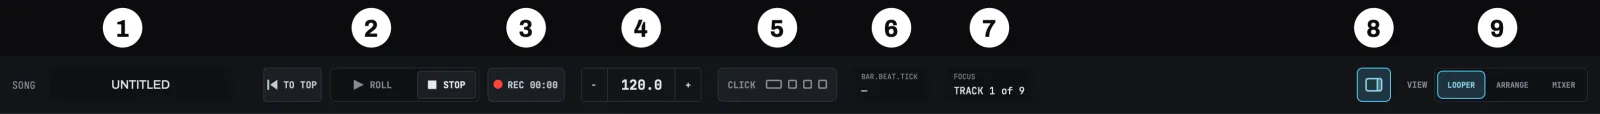
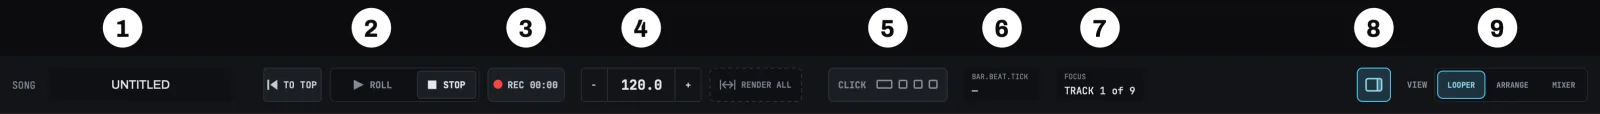
LOOM manual: 1.6.0

diff --git a/src/loom-manual/side-panel.html b/src/loom-manual/side-panel.html
@@ -26,7 +26,7 @@ manualSlug: side-panel
 <p>To leave the <code>TRACK</code> panel, use the <code>GLOBAL</code> tab. To hide the panel, use the panel toggle.</p>
 <h2 id="the-global-panel">The GLOBAL panel</h2>
 <p>Everything here is the song's global default: the value a track inherits until you change it on that track. Changing a setting here does not overwrite every track. A strip you have set differently in the <code>i</code> panel keeps its own value and shows an asterisk on its <code>STOP</code> face.</p>
-<div class="shot-pair"><figure class="shot shot-pair"><img src="/assets/loom/manual/panel.global-settings.webp" width="301" height="492" loading="lazy" decoding="async" alt="The top of the GLOBAL panel as the window opens: its GLOBAL and RESPONDS TO GLOBALS sections."><figcaption>The top of the GLOBAL panel as the window opens: its GLOBAL and RESPONDS TO GLOBALS sections.</figcaption></figure><figure class="shot shot-pair"><img src="/assets/loom/manual/panel.global-device.webp" width="320" height="572" loading="lazy" decoding="async" alt="The rest of the GLOBAL panel: its AUDIO DEVICE, MIDI and ACCESSIBILITY sections, with no audio device open."><figcaption>The rest of the GLOBAL panel: its AUDIO DEVICE, MIDI and ACCESSIBILITY sections, with no audio device open.</figcaption></figure></div>
+<div class="shot-pair"><figure class="shot shot-pair"><img src="/assets/loom/manual/panel.global-settings.webp" width="301" height="598" loading="lazy" decoding="async" alt="The top of the GLOBAL panel as the window opens: its GLOBAL and RESPONDS TO GLOBALS sections."><figcaption>The top of the GLOBAL panel as the window opens: its GLOBAL and RESPONDS TO GLOBALS sections.</figcaption></figure><figure class="shot shot-pair"><img src="/assets/loom/manual/panel.global-device.webp" width="320" height="466" loading="lazy" decoding="async" alt="The rest of the GLOBAL panel: its AUDIO DEVICE, MIDI and ACCESSIBILITY sections, with no audio device open."><figcaption>The rest of the GLOBAL panel: its AUDIO DEVICE, MIDI and ACCESSIBILITY sections, with no audio device open.</figcaption></figure></div>
 <h3 id="global">GLOBAL</h3>
 <table>
 <thead>
@@ -68,6 +68,9 @@ manualSlug: side-panel
 <p>There are two count-ins, and they do different jobs. <code>REC COUNT-IN</code> counts forward from a record press on one track, and recording begins on the downbeat at the end of the count. <code>SONG COUNT-IN</code>, on the <code>SONG</code> tab, counts the whole transport in before bar one, in negative time. It applies only to <code>PERFORM FROM TOP</code>. It does not apply to <code>PERFORM FROM HERE</code>, which rolls from wherever the playhead already is without locating first. Each count-in's accessible description says which one it is.</p>
 <p>Plain <code>ROLL</code> never counts in, whatever either setting says.</p>
 <p>The <code>LENGTH</code> list is a subset. The engine accepts any bar count up to 512, but the chip offers only <code>FREE</code> plus six powers of two. If a song holds a count the chip cannot show, the chip displays the nearest value it can show, and nothing is written back.</p>
+<h3 id="tempo">TEMPO</h3>
+<p><code>TEMPO</code> holds <code>RENDER ALL</code>, the same control as the button beside the tempo in the top bar. See <a href="/loom/manual/top-bar/#render-all">RENDER ALL</a>. It is always here, whatever the window's width.</p>
+<p>The line above the button says what there is to render, for example <code>3 STRETCH TRACKS OFF 120.0</code>, or <code>ALL STRETCH TRACKS AT 120.0</code> when there is nothing to render. While a run is going it reads <code>TEMPO LOCKED UNTIL DONE</code>, and the button reads <code>RENDERING 2 OF 3 · 40%</code>. The note under the button says that <code>UNDO</code> brings back each track's original.</p>
 <h3 id="responds-to-globals">RESPONDS TO GLOBALS</h3>
 <table>
 <thead>
@@ -207,7 +210,7 @@ manualSlug: side-panel
 <p>It is named <code>Announce state changes</code>. Turning it on announces that it is on; turning it off is silent. It silences speech only: every name, role and description stays as it is, and the notice line still shows its text.</p>
 <p>The switch is not saved. It starts on at every launch, so if you turned it off last night, turn it off again tonight.</p>
 <h2 id="the-track-panel">The TRACK panel</h2>
-<figure class="shot shot-beside"><img src="/assets/loom/manual/panel.track-top.webp" width="301" height="502" loading="lazy" decoding="async" alt="The top of the TRACK panel on track 1: its SOURCE and TIMING sections."><figcaption>The top of the TRACK panel on track 1: its SOURCE and TIMING sections.</figcaption></figure>
+<figure class="shot shot-beside"><img src="/assets/loom/manual/panel.track-top.webp" width="301" height="578" loading="lazy" decoding="async" alt="The top of the TRACK panel on track 1: its SOURCE and TIMING sections."><figcaption>The top of the TRACK panel on track 1: its SOURCE and TIMING sections.</figcaption></figure>
 <p>This is a single panel that moves between tracks, rather than one panel per strip, and its controls are editable.</p>
 <p>The panel follows the focused track however focus moved: a strip press, an arrow key, or any strip verb, since each one focuses the track first. The tab, the body and the settings the chips write always refer to the same track.</p>
 <h3 id="the-track-panel-is-the-tracks-settings">The TRACK panel is the track's settings</h3>
@@ -268,6 +271,11 @@ manualSlug: side-panel
 <td><code>IMMEDIATE</code>, <code>END OF BEAT</code>, <code>END OF BAR</code>, <code>END OF LOOP</code></td>
 </tr>
 <tr>
+<td><code>FOLLOW TEMPO</code></td>
+<td>segmented row</td>
+<td><code>OFF</code>, <code>PITCH</code>, <code>STRETCH</code></td>
+</tr>
+<tr>
 <td><code>ON LAUNCH</code></td>
 <td>chip</td>
 <td><code>KEEP PHASE</code>, <code>FROM THE TOP</code></td>
@@ -275,7 +283,44 @@ manualSlug: side-panel
 </tbody>
 </table>
 <p>The two quantizes are segmented rows rather than dropdowns because their four values form an ordered scale (immediate, beat, bar, cycle, each coarser than the last), and a row shows that order by position. At soundcheck, you can compare five tracks with a glance along the rows.</p>
+<p><code>FOLLOW TEMPO</code> sets what the track's loop does when the song's tempo is not the tempo the loop was recorded at:</p>
+<ul>
+<li><code>STRETCH</code> plays the loop at the song's tempo and keeps its pitch. LOOM plays the loop as a stream of short overlapping slices. Each slice starts near the point the song's position says the loop has reached, shifted slightly to where its waveform best continues the slice before it, so held notes keep their pitch across the joins. Every pass of the loop starts at the same point in the bar, and while the tempo stays the same, the passes sound practically identical. At large tempo changes some smearing remains: drums can soften or flam, and fast notes can blur.</li>
+<li><code>PITCH</code> plays the loop faster or slower to match the song's tempo, and its pitch moves with its speed, like tape.</li>
+<li><code>OFF</code> plays the loop at the tempo it was recorded at. After a tempo change, the loop no longer lines up with the bar lines.</li>
+</ul>
+<p>At the tempo the loop was recorded at, all three settings play the loop exactly as it was recorded. A new track starts at <code>STRETCH</code>, and so does every track in a song saved before this setting existed.</p>
+<p>If you change <code>FOLLOW TEMPO</code> while a loop plays, the loop continues from the point it has reached. Switched to <code>OFF</code>, it plays on at its recorded tempo from that point. Switched from <code>OFF</code> to <code>STRETCH</code> or <code>PITCH</code>, it follows the song's tempo from that point and keeps its position against the bar lines, so it does not jump to a bar line. <code>END OF LOOP</code> and <code>NEXT CYCLE</code> then stop or start the track at the end of the pass you are hearing.</p>
+<p>If you change <code>FOLLOW TEMPO</code> while the track is stopped, the change takes effect when you next start the track. Changing it back and forth while the track is stopped does not move the loop against the bar lines.</p>
+<p>The line under the row says what the track is doing, for example <code>RECORDED 98.0 · PLAYING LO-FI AT 120.0</code> or <code>RECORDED 98.0 · SPEED AND PITCH FOLLOW 120.0</code>. It reads <code>PLAYING AS RECORDED</code> when the loop plays at the tempo it was recorded at, <code>NOT FOLLOWING</code> and the song's tempo when the setting is <code>OFF</code>, and <code>NO LOOP</code> when the track is empty. The line is read-only and is not a tab stop.</p>
+<p>A loop recorded with no tempo cannot follow one. The line reads <code>NO RECORDED TEMPO · PLAYING AS RECORDED</code>, and the loop plays as it does at <code>OFF</code> whatever the setting is.</p>
+<p><strong>Overdubbing a track that follows the tempo.</strong> When the song's tempo changes, LOOM renders each <code>STRETCH</code> or <code>PITCH</code> track's loop at the new tempo in the background. The render is the loop exactly as you hear it at that tempo. When you press overdub, the track switches to the render and the overdub starts at your press, on the beat you play it.</p>
+<p>If you press overdub just after a tempo change, before the render is ready, the press is refused, the track keeps playing, and the notice line shows how far the render has got, for example <code>rendering, 40%</code>. Press overdub again. The render is usually ready before a tempo change reaches the next beat, where it takes effect. It takes about a twentieth of a second for a 20-second loop and about a sixth of a second for a 2-minute loop. A MIDI control mapped to overdub and a <code>DUB</code> region in the arrangement are refused the same way.</p>
+<p>Overdubbing a stretched track keeps the stretch for good. After the overdub, the track plays the render at the song's tempo, as if you had recorded the loop at that tempo. <code>UNDO</code> removes your overdub and returns to the render. Press <code>UNDO</code> again to bring back the loop as it was before the render, at the tempo it was recorded at. The overdubs you made before the tempo change can no longer be undone one at a time. LOOM saves the render as a take of its own, at the song's tempo, and keeps the loop as it was before the render in the song's folder, so both are still there when you open the song again.</p>
+<p>A loop can be at most 240 seconds long at the tempo it follows. If slowing the tempo would make the loop longer than that, an overdub press is refused and the notice line names both lengths. Set the tempo closer to the one the loop was recorded at, or set <code>FOLLOW TEMPO</code> to <code>OFF</code>, to overdub it.</p>
 <p><code>ON LAUNCH</code> sets <em>where</em> a track starts; <code>LAUNCH QUANTIZE</code> sets <em>when</em>. <code>FROM THE TOP</code> starts the track at its own beginning, whatever the rest of the set is doing. <code>KEEP PHASE</code> starts it at the point it would have reached if it had never stopped.</p>
+<h4 id="render">RENDER</h4>
+<p><code>RENDER</code> re-renders the track's loop at the song's tempo with a high-quality stretch, and the clean render replaces the live stretch. It appears under the <code>FOLLOW TEMPO</code> line on a track set to <code>STRETCH</code>, and the same control is the <code>RENDER</code> chip in the track's strip header. Tracks set to <code>OFF</code> or <code>PITCH</code> do not show it.</p>
+<p>Use it when you want the cleanest sound at the new tempo. A render sounds cleaner than the live stretch whether the loop is sped up or slowed down: the live stretch can soften or double drums and vocals, and the render avoids that.</p>
+<p>To overdub over a clean stretch, render the track first with <code>RENDER</code>. An overdub on a stretched track that has not been rendered keeps the lo-fi stretch for good. See <a href="#timing">Overdubbing a track that follows the tempo</a> above.</p>
+<p>The button reads <code>RENDER AT 120.0</code>, with the song's tempo. Press it and the render starts, with no confirmation. When it is finished, the rendered loop takes over in the middle of the loop, at the point the track has reached, with no gap. The track then plays at the song's tempo, so the line above reads <code>PLAYING AS RECORDED</code> and <code>RENDER</code> has a dashed grey frame until the tempo changes again.</p>
+<p><strong>A render keeps the track's original.</strong> The original is the loop as it was before the track's first render. LOOM keeps it in the song's folder, and it is still there after you save, quit and open the song again. The button's tooltip says <code>RENDER AT 120.0 · UNDO BRINGS BACK THE ORIGINAL</code>, and the line under the button says <code>UNDO brings back the original.</code> When the render lands, the notice line says, for example, <code>track 2 · rendered at 120.0 · undo brings back the original</code>.</p>
+<ul>
+<li><strong><code>UNDO</code></strong> after a render brings back the original, at the tempo it was recorded at. LOOM loads it from the song's folder, which takes a moment for a long loop. While it loads, another <code>UNDO</code> or <code>REDO</code> on that track is refused, and the notice line says, for example, <code>track 2 · undo refused · its original recording is still loading</code>.</li>
+<li><strong><code>REDO</code></strong> then brings back the render, until you overdub, record or clear the track, or change the tempo.</li>
+<li><strong>A render starts from the original</strong>, not from an earlier render, unless you have overdubbed over that render. Rendering a track at one tempo and then at another therefore does not stack two renders. When you change the song's tempo after a render, the track goes back to its original and follows the new tempo from it.</li>
+<li><strong>If you overdub over a render</strong>, <code>UNDO</code> removes the overdub as usual. The loop with your overdub is now the track's loop, so later renders start from it rather than from the original. LOOM still keeps the original in the song's folder.</li>
+<li><strong>Clearing the track</strong>, or recording or replacing its loop, lets go of the original. LOOM then treats it like any other recording the track no longer uses.</li>
+<li><strong>If the original is missing from the song's folder</strong>, <code>UNDO</code> is refused, and the notice line says why, for example <code>track 2 · undo refused · its original recording (take 12) could not be read</code>. The render stays on the track, and later renders start from it.</li>
+</ul>
+<p><strong>While the track renders</strong>, the button fills from left to right and reads <code>RENDERING · 40%</code>, and the line above it reads <code>FOLLOW LOCKED UNTIL DONE</code>. On this track, overdub, record, <code>UNDO</code>, <code>REDO</code>, <code>CLEAR</code>, replace and <code>FOLLOW TEMPO</code> are refused, and each refused press says why on the notice line, for example <code>track 1 · undo refused · rendering, 40%</code>. Play, stop, mute, solo, the fader and the effects still work: the render is made from the loop as it was when you pressed the button, so stopping the track does not affect it. The tempo is locked until the render lands. See <a href="#tempo">TEMPO</a>.</p>
+<p><strong><code>RENDER</code> waits or refuses when:</strong></p>
+<ul>
+<li><strong>The track is already at the song's tempo.</strong> The button has a dashed grey frame. Pressing it says, for example, <code>track 2 · already at 120.0</code>.</li>
+<li><strong>A <code>RENDER ALL</code> run is going.</strong> The track waits its turn. The button reads <code>QUEUED · 2 OF 3</code> and the line under it reads <code>WAITING IN RENDER ALL</code>. A waiting track is not locked: you can still overdub or undo it until its turn.</li>
+<li><strong>The arrangement is playing.</strong> The button shows a lock and the line under it reads <code>NOT WHILE THE ARRANGEMENT PLAYS</code>. Rendering is a looper-view feature, and starting the arrangement is refused while a render runs.</li>
+<li><strong>LOOM cannot render the loop.</strong> For example, the rendered loop would be longer than the longest loop a track can hold. The notice line says why, and the track goes on playing the live stretch.</li>
+</ul>
 <h3 id="recording">RECORDING</h3>
 <p>The four chips read from top to bottom in the order of the recording lifecycle.</p>
 <table>
@@ -338,7 +383,7 @@ manualSlug: side-panel
 <p>Both start at <code>ON</code>, so if you never open this panel, every strip follows both buttons.</p>
 <p>They sit side by side because you compare them: a track you never want the button to <em>start</em> is often one you do want it to stop.</p>
 <h3 id="state">STATE</h3>
-<figure class="shot shot-beside"><img src="/assets/loom/manual/song.track-panel-state.webp" width="321" height="344" loading="lazy" decoding="async" alt="The bottom of the TRACK panel on track 3, which holds a stopped loop: its RESPONDS TO GLOBALS and STATE sections."><figcaption>The bottom of the TRACK panel on track 3, which holds a stopped loop: its RESPONDS TO GLOBALS and STATE sections.</figcaption></figure>
+<figure class="shot shot-beside"><img src="/assets/loom/manual/song.track-panel-state.webp" width="321" height="228" loading="lazy" decoding="async" alt="The bottom of the TRACK panel on track 3, which holds a stopped loop: its RESPONDS TO GLOBALS and STATE sections."><figcaption>The bottom of the TRACK panel on track 3, which holds a stopped loop: its RESPONDS TO GLOBALS and STATE sections.</figcaption></figure>
 <p>Six readouts, none of them a tab stop.</p>
 <table>
 <thead>
@@ -437,6 +482,10 @@ manualSlug: side-panel
 <tr>
 <td><code>ON LAUNCH</code></td>
 <td><code>FROM THE TOP</code></td>
+</tr>
+<tr>
+<td><code>FOLLOW TEMPO</code></td>
+<td><code>STRETCH</code></td>
 </tr>
 </tbody>
 </table>

diff --git a/src/loom-manual/top-bar.html b/src/loom-manual/top-bar.html
@@ -54,7 +54,7 @@ manualSlug: top-bar
 </tbody>
 </table>
 <p>The sections below follow the same order.</p>
-<figure class="shot shot-full"><img src="/assets/loom/manual/song.top-bar-rolling.webp" width="782" height="50" loading="lazy" decoding="async" alt="The middle of the top bar while a song plays: ROLL lit green, a recording running at REC 00:02, the tempo locked behind a dashed frame because the tracks hold loops, the third beat LED filled, and BAR.BEAT.TICK at 3.3.90."><figcaption>The middle of the top bar while a song plays: ROLL lit green, a recording running at REC 00:02, the tempo locked behind a dashed frame because the tracks hold loops, the third beat LED filled, and BAR.BEAT.TICK at 3.3.90.</figcaption></figure>
+<figure class="shot shot-full"><img src="/assets/loom/manual/song.top-bar-rolling.webp" width="892" height="50" loading="lazy" decoding="async" alt="The middle of the top bar while a song plays: ROLL lit green, a recording running at REC 00:02, the tempo locked behind a dashed frame because track 5 is still recording, the third beat LED filled, and BAR.BEAT.TICK at 3.3.90."><figcaption>The middle of the top bar while a song plays: ROLL lit green, a recording running at REC 00:02, the tempo locked behind a dashed frame because track 5 is still recording, the third beat LED filled, and BAR.BEAT.TICK at 3.3.90.</figcaption></figure>
 <h2 id="song">SONG</h2>
 <p><strong>What it is.</strong> A readout of which song you are in, drawn centred inside a filled well.</p>
 <p><strong>What it does.</strong> Nothing. It only shows the name. To change the name, use <em>Save As…</em> and its dialog.</p>
@@ -171,10 +171,8 @@ manualSlug: top-bar
 </ul>
 <p>One step of the drag, the steppers or the arrow keys is one beat per minute. Hold <code>Shift</code> on any of the three and a step is a tenth of a beat per minute instead.</p>
 <p>Stepping and typing are different operations. The tempo is held in thousandths of a beat per minute. Stepping is relative, so a song sitting at 137.4 becomes 137.4 plus one step and is not snapped to a whole number. Typing is absolute and rounds to the tenth that the field draws.</p>
-<p><strong>When it is locked.</strong> This field refuses a tempo you type, drag or step unless every audio track is empty and the transport is stopped. Having no audio device open does not lock it.</p>
-<p>A loop on an instrument track does not lock it. An instrument loop is recorded in beats, so it follows the tempo: stop the transport, change the tempo, and the loop plays the same bars at the new tempo. When the field is locked, its frame goes from solid to dashed, the number and the steppers dim, and nothing moves by a pixel. Click the locked field, and the notice line says why it is locked.</p>
-<p>The lock only stops you changing the tempo by hand. The number can still change by itself: <a href="#the-first-free-loop-sets-the-tempo">The first free loop sets the tempo</a> is the one thing that changes it while the transport rolls.</p>
-<p>The reasons below form a chain, and you have to clear all of them. Finishing a take leaves a track holding a loop, and clearing every track with the transport still rolling leaves the transport rolling. To type a tempo, you need both: every audio track empty and the transport stopped. To have LOOM derive one, the transport can be rolling, but every other track must be empty. You play the first free loop.</p>
+<p><strong>When it is locked.</strong> This field refuses a tempo you type, drag or step while a track is armed, counting in, recording, overdubbing or waiting on a command, and while a track is rendering or waiting in a <code>RENDER ALL</code> run (see <a href="#render-all">RENDER ALL</a>). The transport rolling does not lock it, tracks holding loops do not lock it, and having no audio device open does not lock it.</p>
+<p>When the field is locked, its frame goes from solid to dashed, the number and the steppers dim, and nothing moves by a pixel. Click the locked field, and the notice line says why it is locked.</p>
 <table>
 <thead>
 <tr>
@@ -184,16 +182,8 @@ manualSlug: top-bar
 </thead>
 <tbody>
 <tr>
-<td>An audio track holds a recorded loop</td>
-<td>A tempo typed under one moves every bar-quantized press against it. Clear every audio track <strong>and</strong> halt the transport.</td>
-</tr>
-<tr>
 <td>A track is recording or waiting to</td>
-<td>Finish or stop the take. If it lands a loop, the field stays locked because a track holds a loop.</td>
-</tr>
-<tr>
-<td>The transport is rolling</td>
-<td>Press <code>STOP</code>, or close your first free loop, which sets the tempo without stopping.</td>
+<td>Finish or stop the take.</td>
 </tr>
 <tr>
 <td>The engine's state could not be read</td>
@@ -201,10 +191,12 @@ manualSlug: top-bar
 </tr>
 </tbody>
 </table>
+<p><strong>Changing the tempo while the transport rolls.</strong> The change lands on the next beat, not at the instant you let go, so the beat you are in finishes at the old tempo. A change made very close to a beat lands on the beat after it. A change made during a count-in lands on the first beat of the song.</p>
+<p>The bars stay where they were. A change on beat 3 does not make beat 3 a downbeat: the click, the bar lines that quantized presses land on, and <code>BAR.BEAT.TICK</code> all go on counting the same bars at the new tempo. A press that is already waiting for a bar line fires on that bar line at the new tempo. A loop on an instrument track is recorded in beats, so it plays the same bars at the new tempo.</p>
 <p>If you are dragging when the lock arrives, the drag is cancelled rather than left tracking your finger over a box that has gone dead.</p>
 <p><strong>What a screen reader gets.</strong> The control is named <code>Project tempo</code> and has the role of a slider with a real, settable value. A screen reader can read the number and set it, and is told the range and that one step is one beat per minute. When the field is locked, the value reports itself as read-only and the reason is added to the end of its description. The name stays <code>Project tempo</code> in both states.</p>
 <p>When the field locks, LOOM says why on the notice line. A locked field leaves the tab order, because <code>Tab</code> should not stop on a control that cannot act, so the reason goes where the keyboard already goes. The notice line shows, word for word, the sentence the field holds.</p>
-<p>LOOM says it once, as the lock arrives, and does not repeat it. It also says nothing when one reason replaces another: when you finish a take, the reason changes from recording to holding a loop without a word. The reason is a long sentence, and hearing it again in the middle of playing is worse than not hearing it. To see the current reason again, click the locked field.</p>
+<p>LOOM says it once, as the lock arrives, and does not repeat it. It also says nothing when one reason replaces another. The reason is a long sentence, and hearing it again in the middle of playing is worse than not hearing it. To see the current reason again, click the locked field.</p>
 <blockquote>
 <p><strong>VoiceOver:</strong> the notice line is spoken as the lock arrives. VoiceOver navigation also reaches the locked field itself, reports it unavailable, and reads the reason at the end of its description. Use this to find out why the field will not move after the announcement has passed.</p>
 </blockquote>
@@ -216,7 +208,7 @@ manualSlug: top-bar
 <p>Your loop starts on a bar line, but usually not bar 1. The grid runs through the whole session instead of starting at your loop, so the bars that went by before you pressed record are counted: if two bars' worth of time passed first, your loop begins at bar 3, beat 1. The bar number is how many whole derived bars fit before your loop, plus one. The ruler shows the audible time before your loop, and this keeps every bar number in the arrange view positive. What matters musically is that your loop starts on a bar line, on beat 1, and is a whole number of bars long, so everything you overdub against it lands where you expect, whatever <code>BAR.BEAT.TICK</code> calls the first bar.</p>
 <p>It happens while the transport rolls, and you press nothing extra. Closing a loop leaves the transport rolling, which is the state this works in. Do not halt the transport to make it fire: halting closes the take and derives nothing. Nothing new sounds at the moment it lands, and the click picks up the new grid with no stutter and no doubled beat at the seam. An audio loop is not touched. An instrument loop is retimed to the new tempo in the same moment, so every note stays where you played it and the loop keeps the length you played. A note you are holding as the tempo changes is not cut. In the same frame the TEMPO field shows the new number, and the notice line at the bottom of the window says what was derived.</p>
 <blockquote>
-<p><strong>VoiceOver:</strong> the tempo moves on a control you cannot tab to. Recording a loop leaves the field locked, so the notice line is where LOOM tells you the new tempo and the bar count it read.</p>
+<p><strong>VoiceOver:</strong> the tempo changes without a press of yours, so the notice line is where LOOM tells you the new tempo and the bar count it read.</p>
 </blockquote>
 <p><strong>What the notice says.</strong> It names the bar count first, <em>"assuming 4 bars of 4/4"</em>, because that is the assumption LOOM made and the only part of the sentence you might disagree with.</p>
 <p><strong>What it does not say.</strong> LOOM reads a phrase as 1, 2, 4, 8 or 16 bars. A loop that is really 3, 5 or 6 bars long is read as one of those, and its tempo is out by that ratio. This applies to every derivation, so the notice line leaves it out. Otherwise the line would repeat the same sentence on every loop, and you would have to re-read it to find the two numbers that had changed. See <a href="/loom/manual/bottom-rails/#what-the-line-does-and-does-not-say">What the line does and does not say</a>.</p>
@@ -233,6 +225,12 @@ manualSlug: top-bar
 <p><strong>It comes back when you clear.</strong> Clear every track and the next free loop you close derives the tempo again. LOOM does not remember whether this song has ever derived one. Only what is in the tracks right now counts.</p>
 <p><strong>When it cannot.</strong> If no whole bar count fits your phrase, or the tempo it would land on is outside the range the field accepts, nothing is changed and nothing is snapped. The notice line says which of the two happened.</p>
 <p>On an instrument track, the loop is retimed a moment after you close it. If you overdub, undo or clear in that moment, the tempo goes back to what it was, and the notice line says that the loop changed before it could be retimed.</p>
+<h2 id="render-all">RENDER ALL</h2>
+<p><code>RENDER ALL</code> sits just to the right of the tempo field. It renders every track that is set to <code>STRETCH</code> and plays at a tempo other than the one its loop was recorded at, at the song's tempo, one track at a time. For what a render does to a track, including what <code>UNDO</code> does afterwards, see <a href="/loom/manual/side-panel/#render">RENDER</a>.</p>
+<p>The count on the button is the number of tracks that would be rendered. When there are none, the button has a dashed grey frame, and pressing it says <code>render all · no stretched track is off tempo</code>. Tracks set to <code>PITCH</code> are not rendered: rendering them gains nothing.</p>
+<p>While a run is going, the button reads which track of the run is rendering and that track's progress, for example <code>2/3 · 40%</code>, and its fill shows the whole run. Each track's <code>RENDER</code> chip shows its own state: the track rendering now fills, and the tracks waiting read <code>QUEUED</code>. The tempo field is locked until the last track lands, and each track's own lock lifts when its render lands. A track that stops qualifying while it waits, for example because you set it to <code>OFF</code>, drops out of the run.</p>
+<p>While the arrangement is playing, the button shows a lock and does nothing.</p>
+<p>When the window is too narrow for the whole top bar, <code>RENDER ALL</code> is the first control to go. The same button is always in the side panel's <code>GLOBAL</code> tab, under <code>TEMPO</code>.</p>
 <h2 id="click-and-the-beat-leds">CLICK and the beat LEDs</h2>
 <p><strong>What CLICK does.</strong> Turns the click's audio on and off. It is saved with the song, so a song you open comes back with the setting it was saved with. It is in the top bar because you reach for it mid-set. It is named <code>Click audible</code>, and the notice line reports <code>click audible</code> or <code>click silent</code>.</p>
 <p>The beat LEDs are inside the button, to the right of the word, and pressing anywhere on the button toggles the click. The word is dim when the click is silent and bright when it is audible. The LEDs carry the colour that shows the click will be heard.</p>

diff --git a/src/loom-manual/track-strips.html b/src/loom-manual/track-strips.html
@@ -92,6 +92,14 @@ manualSlug: track-strips
 <p>A small <code>i</code> at the right of the strip header. It opens the side panel's <code>TRACK</code> mode on this track and focuses the track, and it lights while its panel is open.</p>
 <p>Pressing it again while its panel is open switches the panel back to <code>GLOBAL</code>, the panel's other mode, rather than closing it. To collapse the panel, use the <a href="/loom/manual/top-bar/#the-panel-toggle">panel toggle</a>.</p>
 <p>Its accessible name is <code>Track 3 info</code>. Its description says it opens the info panel for that track, where you choose its input.</p>
+<h3 id="render">RENDER</h3>
+<p>On a track set to <code>STRETCH</code>, the strip header shows a <code>RENDER</code> chip to the left of the <code>i</code>. It is the same control as <code>RENDER</code> in the side panel, and the two always show the same state. See <a href="/loom/manual/side-panel/#render">RENDER</a> for what it does. The small strips beside the open editor dock have no room for it; use the side panel.</p>
+<ul>
+<li>A cyan frame means there is something to render. A dashed grey frame means the track is already at the song's tempo.</li>
+<li>While the track renders, the chip fills and shows the percent, a thin cyan ring runs inside the strip's ring, and the ring's caption reads <code>RENDERING 40%</code> instead of the next press. <code>UNDO</code>, <code>REDO</code> and <code>CLEAR</code> get a cyan dashed frame: they are refused until the render lands, and pressing one says why on the notice line.</li>
+<li>A cyan dashed <code>QUEUED</code> chip means the track is waiting in a <code>RENDER ALL</code> run.</li>
+<li>A lock means the arrangement is playing.</li>
+</ul>
 <h3 id="the-ring">The ring</h3>
 <figure class="shot shot-beside"><img src="/assets/loom/manual/session.track-strip-playing.webp" width="260" height="387" loading="lazy" decoding="async" alt="Track 1 playing a loop. The ring reads -0.2, two beats before the loop point, and the next press will overdub."><figcaption>Track 1 playing a loop. The ring reads -0.2, two beats before the loop point, and the next press will overdub.</figcaption></figure>
 <p>The big round button with the light ring around it, at the top of the strip under the header. It is the control you look at while playing.</p>
@@ -193,7 +201,7 @@ manualSlug: track-strips
 </tr>
 </tbody>
 </table>
-<figure class="shot shot-full"><img src="/assets/loom/manual/song.rings.webp" width="1224" height="208" loading="lazy" decoding="async" alt="Five rings from one moment, left to right: DUB with its two concentric sweeps, WAIT PLAY with the wedge at twelve o'clock, STOPPED, PLAY, and REC counting up in seconds."><figcaption>Five rings from one moment, left to right: DUB with its two concentric sweeps, WAIT PLAY with the wedge at twelve o'clock, STOPPED, PLAY, and REC counting up in seconds.</figcaption></figure>
+<figure class="shot shot-full"><img src="/assets/loom/manual/song.rings.webp" width="1220" height="209" loading="lazy" decoding="async" alt="Five rings from one moment, left to right: DUB with its two concentric sweeps, WAIT PLAY with the wedge at twelve o'clock, STOPPED, PLAY, and REC counting up in seconds."><figcaption>Five rings from one moment, left to right: DUB with its two concentric sweeps, WAIT PLAY with the wedge at twelve o'clock, STOPPED, PLAY, and REC counting up in seconds.</figcaption></figure>
 <p><code>WAIT TOP</code> is a playing loop that waits to start again from its top.</p>
 <p>A track waiting to play from a stop has not started its loop yet, so its sweep has no length and only the wedge marks it, as on the second ring above.</p>
 <figure class="shot shot-beside"><img src="/assets/loom/manual/session.ring-wait-dub.webp" width="206" height="206" loading="lazy" decoding="async" alt="A ring that reads WAIT DUB, with the wedge at twelve o'clock, — for the count, and → OVERDUB below."><figcaption>A ring that reads WAIT DUB, with the wedge at twelve o'clock, — for the count, and → OVERDUB below.</figcaption></figure>

diff --git a/src/loom-manual/bottom-rails.html b/src/loom-manual/bottom-rails.html
@@ -108,11 +108,10 @@ manualSlug: bottom-rails
 <p>The line says what changed this time. A sentence that would read word for word the same every time an event happens does not go on this line. It lives here in the manual, or in the accessible description of the control it belongs to. A line that repeats the same explanation every time has to be read in full to find the two numbers that moved, and on stage you need to take it in at a glance.</p>
 <p>The derived tempo is the clearest example. The line reads:</p>
 <blockquote>
-<p>Tempo derived from the loop: 120.000 bpm, assuming 4 bars of 4/4. The TEMPO field now reads it, and is locked while a loop is held.</p>
+<p>Tempo derived from the loop: 120.000 bpm, assuming 4 bars of 4/4. The TEMPO field now reads it.</p>
 </blockquote>
-<p>After the first loop on an instrument track, the line ends <em>"stop the transport to change it"</em> instead, because an instrument loop follows a tempo you type with the transport stopped.</p>
-<p>Every part of that is new: the number, the bar count, the meter and the state of the control. The part that never varies is left off. LOOM reads a phrase as 1, 2, 4, 8 or 16 bars, so a loop that is really 3, 5 or 6 bars long reads as one of those, and its tempo is off by that ratio. That is explained in <a href="/loom/manual/top-bar/">The top bar</a>, under the tempo, where you can read it between songs.</p>
-<p>A refusal leads with what to do about it: <em>"Clear every track and halt the transport to type a tempo. … It is locked while a track holds a recorded loop, because a tempo typed under one moves every bar-quantized press against it."</em> The remedy comes first, then the reason. The line holds two lines, about 345 characters at the smallest window size, and a longer sentence loses its end to an ellipsis, so the part you can act on is the part that has to survive. It reads better still when nothing is cut.</p>
+<p>Every part of that is new: the number, the bar count and the meter. The part that never varies is left off. LOOM reads a phrase as 1, 2, 4, 8 or 16 bars, so a loop that is really 3, 5 or 6 bars long reads as one of those, and its tempo is off by that ratio. That is explained in <a href="/loom/manual/top-bar/">The top bar</a>, under the tempo, where you can read it between songs.</p>
+<p>A refusal leads with what to do about it: <em>"Finish or stop the take to type a tempo. It is locked while a track is recording, overdubbing or waiting to."</em> The remedy comes first, then the reason. The line holds two lines, about 345 characters at the smallest window size, and a longer sentence loses its end to an ellipsis, so the part you can act on is the part that has to survive. It reads better still when nothing is cut.</p>
 <h3 id="log">LOG</h3>
 <p><code>LOG</code> sits at the right-hand end of the notice line, in every view. It opens the session log: everything LOOM has told you this session, newest first, in an overlay you can read, select and copy from.</p>
 <p>Use it when a message went past before you finished reading it. The notice line shows one message at a time; the log holds all of them.</p>

diff --git a/src/loom-manual/welcome.html b/src/loom-manual/welcome.html
@@ -16,7 +16,7 @@ manualSlug: welcome
 </li>
 <li>
 <p>Choose your interface. In the side panel's <code>GLOBAL</code> tab, turn the <code>INPUT DEVICE</code> and <code>OUTPUT DEVICE</code> chips. Both start at <code>(system default)</code>. See <a href="/loom/manual/side-panel/">the side panel</a>.</p>
-<figure class="shot shot-step"><img src="/assets/loom/manual/first.device-chips.webp" width="279" height="108" loading="lazy" decoding="async" alt="The INPUT DEVICE and OUTPUT DEVICE chips."><figcaption>The INPUT DEVICE and OUTPUT DEVICE chips.</figcaption></figure>
+<figure class="shot shot-step"><img src="/assets/loom/manual/first.device-chips.webp" width="279" height="84" loading="lazy" decoding="async" alt="The INPUT DEVICE and OUTPUT DEVICE chips."><figcaption>The INPUT DEVICE and OUTPUT DEVICE chips.</figcaption></figure>
 </li>
 <li>
 <p>You already hear yourself. Plug into input 1 and you hear it in the speakers, with nothing to arm or switch on. Inputs 2 and up start muted. Unmute the input you are playing in the mixer's <code>INPUTS</code> bank (<code>⌘3</code>). The bank starts on <code>SHOW</code> <code>ASSIGNED</code>, which lists only the inputs a track records, so choose <code>ALL</code> to see the others. See <a href="/loom/manual/the-mixer/">The mixer</a>.</p>

diff --git a/src/loom-manual/the-arrange-view.html b/src/loom-manual/the-arrange-view.html
@@ -1094,8 +1094,8 @@ manualSlug: the-arrange-view
 <td>Start the audio device first.</td>
 </tr>
 <tr>
-<td><strong>The arrangement crosses a tempo or meter change</strong></td>
-<td>This pass reads one grid and computes every region's bar from the map at the top of the timeline. Keep the arrangement inside one tempo segment.</td>
+<td><strong>The arrangement crosses a meter change</strong></td>
+<td>This pass reads one bar grid and computes every region's bar from the map at the top of the timeline. Keep the arrangement inside one meter. A tempo change is not a problem: it keeps the bars where they were.</td>
 </tr>
 <tr>
 <td><strong>A region names a track this session does not have</strong></td>
